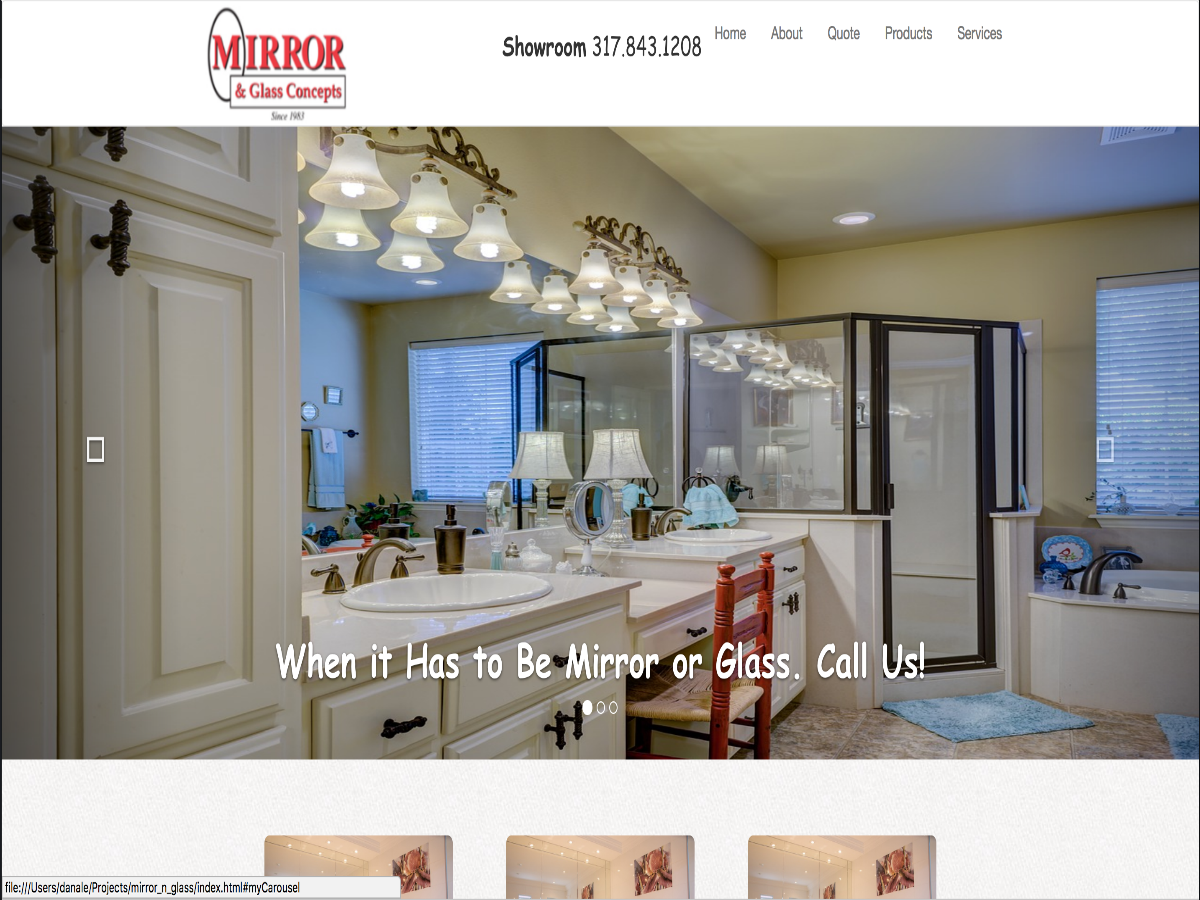
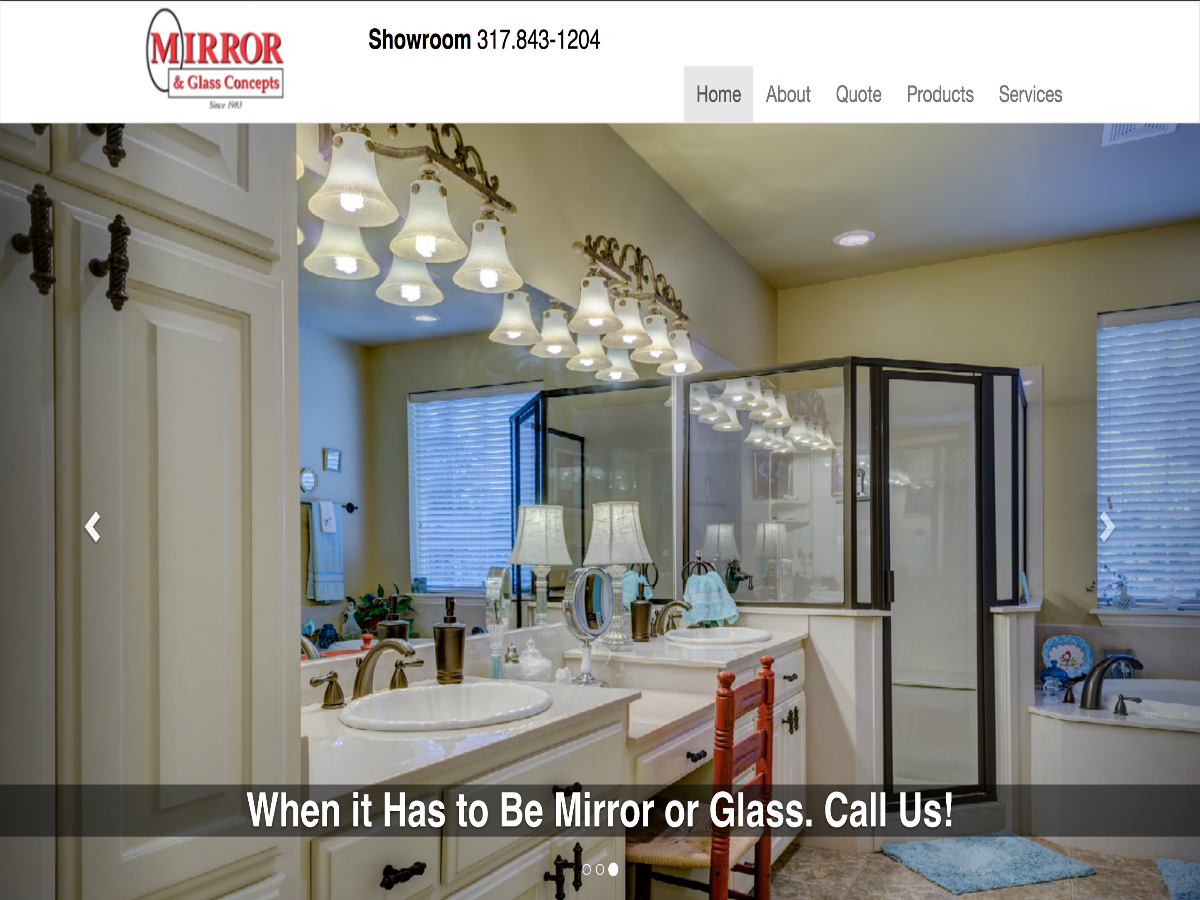
Improved website design

diff --git a/style.css b/style.css
@@ -36,6 +36,7 @@ h1,h2,h5,h6 {
 .carousel-title {
   margin: 0 -9999rem;
   background: rgba(0, 0, 0, 0.5);
+  font-size: 42px !important;
 }
 
 h3 {
@@ -43,13 +44,19 @@ h3 {
 }
 
 h4 {
-  font-weight: bold;
   font-family: "Museo Std 700", sans-serif;
   text-align: center;
+  margin-top: -20px;
+  margin-bottom: -15px !important;
+}
+
+a#target {
+  line-height: 180px;
+  font-size: 20px;
 }
 
 p.lead {
-  margin: 0;
+  margin: 10px;
 }
 
 hr {
@@ -69,7 +76,7 @@ a.link {
 }
 
 #facebook-link {
-  margin-bottom: 75px;
+  margin-bottom: 30px;
 }
 
 .carousel-image {
@@ -77,7 +84,7 @@ a.link {
 }
 
 .container {
-  max-width: 1020px;
+  margin-bottom: -20px;
 }
 
 #image-features {
@@ -120,7 +127,7 @@ a {
   height: 40px;
   width: 40px;
   line-height: 40px;
-  margin: 0 5px 20px 0;
+  margin: 0 20px 5px 0;
   padding: 0;
   -webkit-border-radius: 50px;
   -moz-border-radius: 50px;
@@ -129,6 +136,7 @@ a {
 
 .col-md-12 {
   text-align: center;
+  margin-top: 40px;
 }
 
 .showroom {
@@ -197,7 +205,6 @@ a#gallery {
 .btn-danger {
   padding: 10px 32px;
   margin-bottom: 30px;
-  margin-top: 30px;
   font-size: 20px;
   border-radius: 10px;
   background-color: #cb2027;
@@ -269,6 +276,10 @@ a.btn-default:hover {
   .showroom {
      padding-left: 210px;
   }
+
+  h3 {
+    margin-bottom: 20px;
+  }
 }
 
 @media screen and (max-width: 568px) {
@@ -281,6 +292,22 @@ a.btn-default:hover {
     bottom: 25px;
     right: 0;
     left: 0;
+  }
+
+  .carousel-title {
+    margin: 0;
+    position: relative;
+    background: none;
+  }
+
+  .carousel-title:after {
+    content: '';
+    background: rgba(0, 0, 0, 0.3);
+    left: -9999px; 
+    right: -9999px;
+    top: 0;
+    bottom: 0;
+    position: absolute;
   }
 }
 

diff --git a/index.php b/index.php
@@ -106,7 +106,7 @@ $social_media_feature_body  = get_field('social_media_feature_body');
                   }
                 ?>
                 <div class="caption">
-                  <h4><a href="#" class="link"><?php the_title(); ?> ></a></h4>
+                  <h4><a href="#" class="link" id="image-feature-title"><?php the_title(); ?> ></a></h4>
                 </div>
               </div>
             </div><!-- .col-sm-6 -->  
@@ -122,11 +122,11 @@ $social_media_feature_body  = get_field('social_media_feature_body');
         <div class="container">
           <div class="col-md-12">
               <h2><?php echo $indianapolis_feature_title; ?></h2>
-              <hr />
+              <hr /><br>
               <p class="lead"><?php echo $indianapolis_feature_body; ?></p>
           </div>
           <div class="col-md-12 text-center">
-            <p><a class="btn btn-danger" href="#" role="button">Learn More ></a></p>
+            <p><a class="btn btn-danger" href="#" role="button">Learn more ></a></p>
           </div>
         </div>
       </section>
@@ -136,7 +136,7 @@ $social_media_feature_body  = get_field('social_media_feature_body');
       <section class="row content-region-2 pt40 pb40" id="customer-testimonial">
         <div class="container">
           <div class="col-md-12">
-              <h1>What Our Customers Are Saying...</h1>
+              <h2>What Our Customers Are Saying...</h2>
 
               <?php $loop = new WP_Query(array('post_type' => 'testimonial','orderby' => 'post_id', 'order' => 'ASC')); ?>
               <?php while($loop->have_posts()) : $loop->the_post(); ?>
@@ -185,9 +185,10 @@ $social_media_feature_body  = get_field('social_media_feature_body');
                   </div>  
                 </div><!-- /.col-lg-2 --> 
                 <?php endwhile; ?>
-                <h4><a href="#" class="link">See more on Facebook ></a></h4>
+                
               </div>
         </div>
+        <h4><a href="#" id="target">See more on Facebook ></a></h4>
       </section>
 
 <?php get_footer(); ?>
